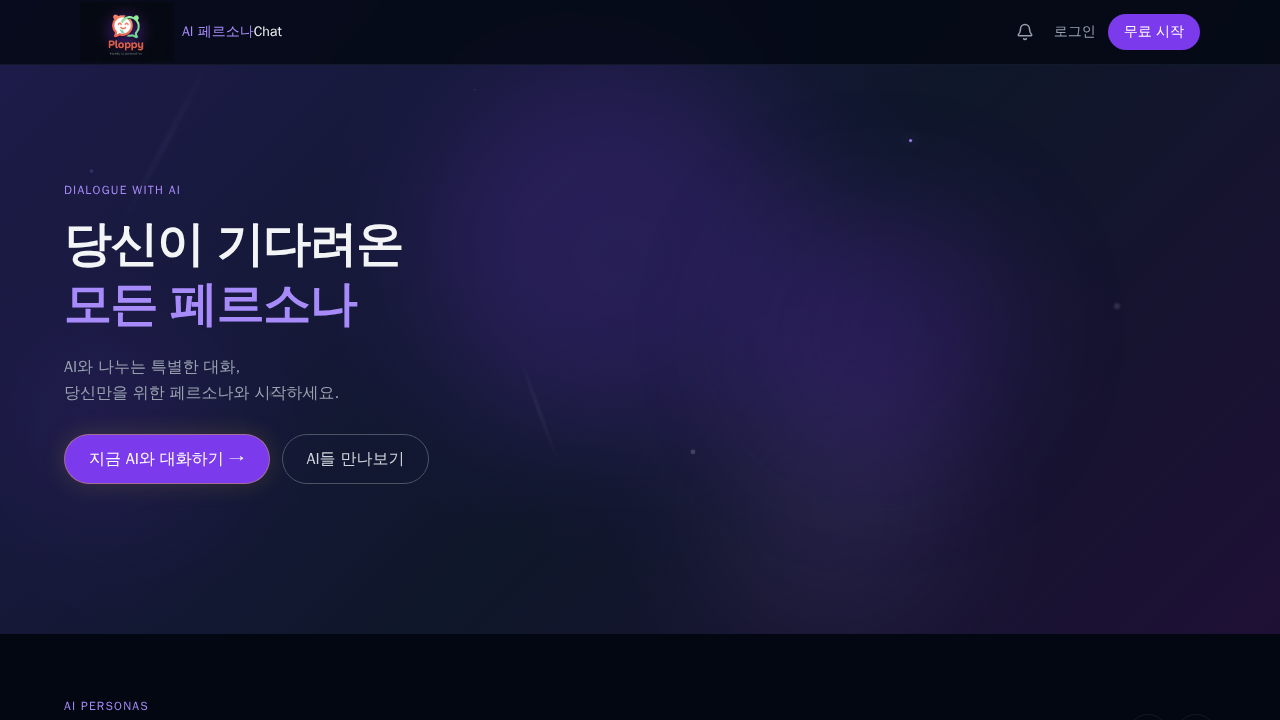
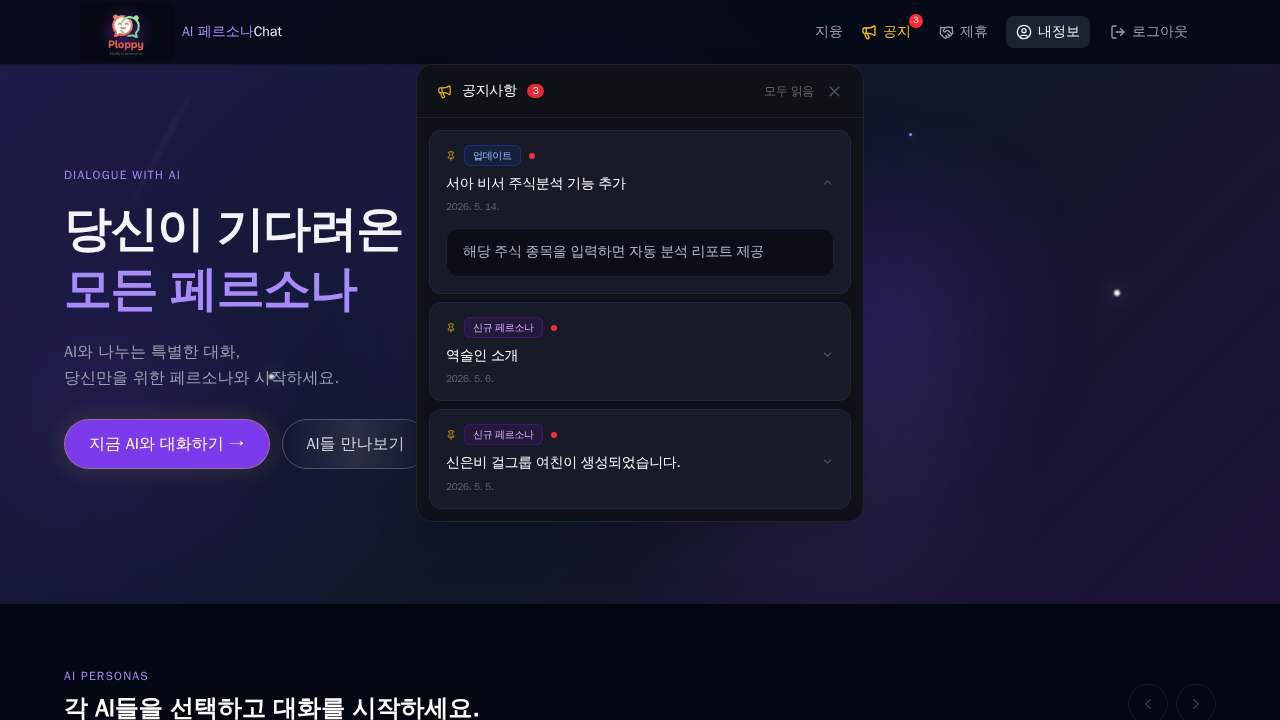
정상작동백업

diff --git a/monitor.js b/monitor.js
@@ -1,6 +1,8 @@
 /**
  * Site Monitor — 3시간마다 crontab으로 실행
- * 성공/실패 결과를 Brevo 이메일로 발송 + 스크린샷 첨부
+ * 1. 사이트 열림 확인 (HTTP 상태)
+ * 2. 로그인 + 페르소나 목록 확인
+ * 결과를 Brevo 이메일로 발송 + 스크린샷 첨부
  *
  * 실행: node /home/paks11299958/ai_mp/monitor.js
  */
@@ -11,12 +13,14 @@ const fs = require('fs');
 const path = require('path');
 
 // ── 설정 ──────────────────────────────────────────────
-const TARGET_URL      = 'https://aichat.dbzone.kr';
-const SCREENSHOT_PATH = path.join(__dirname, 'site_status.png');
-const TIMEOUT_MS      = 10_000;
-const RECIPIENT_EMAIL = 'paks11299958@gmail.com';
-const BREVO_API_KEY   = process.env.BREVO_API_KEY;
-const SENDER_EMAIL    = process.env.BREVO_SENDER_EMAIL || 'noreply@golf.dbzone.kr';
+const TARGET_URL       = 'https://aichat.dbzone.kr';
+const SCREENSHOT_PATH  = path.join(__dirname, 'site_status.png');
+const TIMEOUT_MS       = 15_000;
+const RECIPIENT_EMAIL  = 'paks11299958@gmail.com';
+const BREVO_API_KEY    = process.env.BREVO_API_KEY;
+const SENDER_EMAIL     = process.env.BREVO_SENDER_EMAIL || 'noreply@golf.dbzone.kr';
+const MONITOR_EMAIL    = process.env.MONITOR_EMAIL;
+const MONITOR_PASSWORD = process.env.MONITOR_PASSWORD;
 // ──────────────────────────────────────────────────────
 
 async function sendEmail({ subject, htmlContent, screenshotPath }) {
@@ -32,8 +36,8 @@ async function sendEmail({ subject, htmlContent, screenshotPath }) {
     }
 
     const body = JSON.stringify({
-        sender:  { name: '사이트 모니터', email: SENDER_EMAIL },
-        to:      [{ email: RECIPIENT_EMAIL }],
+        sender:     { name: '사이트 모니터', email: SENDER_EMAIL },
+        to:         [{ email: RECIPIENT_EMAIL }],
         subject,
         htmlContent,
         ...(attachments.length > 0 ? { attachment: attachments } : {}),
@@ -52,64 +56,121 @@ async function sendEmail({ subject, htmlContent, screenshotPath }) {
 }
 
 (async () => {
-    const now      = new Date().toLocaleString('ko-KR', { timeZone: 'Asia/Seoul' });
-    const browser  = await chromium.launch({ headless: true });
-    const page     = await browser.newPage();
+    const now     = new Date().toLocaleString('ko-KR', { timeZone: 'Asia/Seoul' });
+    const browser = await chromium.launch({ headless: true });
+    const page    = await browser.newPage();
+
+    const results = {
+        site:  { ok: false, detail: '' },
+        login: { ok: false, detail: '' },
+    };
 
     try {
-        const response = await page.goto(TARGET_URL, {
-            timeout:   TIMEOUT_MS,
-            waitUntil: 'networkidle',
-        });
+        // ── Check 1: 사이트 열림 ──────────────────────────────
+        try {
+            const response = await page.goto(TARGET_URL, {
+                timeout:   TIMEOUT_MS,
+                waitUntil: 'networkidle',
+            });
+            const status = response?.status() ?? 0;
+            if (status >= 400) throw new Error(`HTTP ${status}`);
+            results.site = { ok: true, detail: `HTTP ${status}` };
+            console.log(`✅ [사이트] ${TARGET_URL} — HTTP ${status}`);
+        } catch (err) {
+            results.site = { ok: false, detail: err.message };
+            console.error(`❌ [사이트] ${err.message}`);
+        }
 
-        const status = response?.status() ?? 0;
-        if (status >= 400) throw new Error(`HTTP ${status}`);
+        // ── Check 2: 로그인 + 페르소나 목록 ──────────────────
+        if (!results.site.ok) {
+            results.login = { ok: false, detail: '사이트 접속 실패로 로그인 점검 건너뜀' };
+        } else if (!MONITOR_EMAIL || !MONITOR_PASSWORD) {
+            results.login = { ok: false, detail: 'MONITOR_EMAIL/MONITOR_PASSWORD 환경변수 미설정' };
+        } else {
+            try {
+                // 로그인 버튼 클릭 (nav 상단 버튼)
+                await page.getByRole('button', { name: '로그인' }).first().click();
 
+                // 이메일 입력창 대기 후 입력
+                await page.waitForSelector('input[placeholder*="example@email.com"]', { timeout: 5_000 });
+                await page.fill('input[placeholder*="example@email.com"]', MONITOR_EMAIL);
+
+                // 비밀번호 입력
+                await page.fill('input[type="password"]', MONITOR_PASSWORD);
+
+                // 폼 제출 (Enter)
+                await page.keyboard.press('Enter');
+
+                // 모달 닫힘 대기 (비밀번호 input 사라짐 = 로그인 성공)
+                await page.waitForSelector('input[type="password"]', {
+                    state:   'hidden',
+                    timeout: TIMEOUT_MS,
+                });
+
+                // 페르소나 목록 노출 확인
+                await page.waitForSelector('text=모든 페르소나', { timeout: 10_000 });
+
+                results.login = { ok: true, detail: '페르소나 목록 표시 확인' };
+                console.log('✅ [로그인] 성공 — 페르소나 목록 확인');
+            } catch (err) {
+                results.login = { ok: false, detail: err.message };
+                console.error(`❌ [로그인] ${err.message}`);
+            }
+        }
+
+        // ── 스크린샷 ──────────────────────────────────────────
         await page.screenshot({ path: SCREENSHOT_PATH, fullPage: false });
-        console.log(`✅ [성공] ${now} — ${TARGET_URL} (HTTP ${status})`);
         console.log(`📸 스크린샷: ${SCREENSHOT_PATH}`);
 
+        // ── 이메일 발송 ───────────────────────────────────────
+        const allOk     = results.site.ok && results.login.ok;
+        const siteRow   = row('사이트 열림', results.site);
+        const loginRow  = row('로그인',     results.login);
+
         await sendEmail({
-            subject: `✅ [정상] aichat.dbzone.kr — ${now}`,
+            subject: allOk
+                ? `✅ [정상] aichat.dbzone.kr — ${now}`
+                : `🚨 [장애] aichat.dbzone.kr — ${now}`,
             htmlContent: `
-                <h2 style="color:#16a34a">✅ 사이트 정상 운영 중</h2>
-                <table style="font-size:14px;line-height:1.8">
-                    <tr><td><b>URL</b></td><td>${TARGET_URL}</td></tr>
-                    <tr><td><b>HTTP 상태</b></td><td>${status}</td></tr>
-                    <tr><td><b>점검 시각</b></td><td>${now}</td></tr>
+                <h2 style="color:${allOk ? '#16a34a' : '#dc2626'}">
+                    ${allOk ? '✅ 사이트 정상 운영 중' : '🚨 장애 감지'}
+                </h2>
+                <table style="font-size:14px;line-height:2;border-collapse:collapse;width:100%;max-width:480px">
+                    <thead>
+                        <tr style="background:#f3f4f6">
+                            <th style="padding:8px 14px;text-align:left">점검 항목</th>
+                            <th style="padding:8px 14px;text-align:left">결과</th>
+                            <th style="padding:8px 14px;text-align:left">상세</th>
+                        </tr>
+                    </thead>
+                    <tbody>
+                        ${siteRow}
+                        ${loginRow}
+                    </tbody>
                 </table>
-                <p style="color:#6b7280;font-size:12px;margin-top:16px">스크린샷을 첨부파일에서 확인하세요.</p>
+                <p style="font-size:13px;color:#6b7280;margin-top:16px">점검 시각: ${now}</p>
+                ${!allOk ? '<p style="margin-top:12px;font-weight:bold;color:#dc2626">즉시 서버 상태를 확인해주세요.</p>' : ''}
+                <p style="color:#9ca3af;font-size:12px;margin-top:8px">스크린샷을 첨부파일에서 확인하세요.</p>
             `,
             screenshotPath: SCREENSHOT_PATH,
         });
 
-        console.log(`📧 성공 이메일 발송 → ${RECIPIENT_EMAIL}`);
+        console.log(`📧 이메일 발송 → ${RECIPIENT_EMAIL}`);
+        if (!allOk) process.exitCode = 1;
 
-    } catch (err) {
-        const now2 = new Date().toLocaleString('ko-KR', { timeZone: 'Asia/Seoul' });
-        console.error(`⚠ [경고] 사이트 접속 실패! → ${err.message}`);
-
-        try {
-            await sendEmail({
-                subject: `🚨 [장애] aichat.dbzone.kr 접속 불가 — ${now2}`,
-                htmlContent: `
-                    <h2 style="color:#dc2626">🚨 사이트 접속 장애 감지</h2>
-                    <table style="font-size:14px;line-height:1.8">
-                        <tr><td><b>URL</b></td><td>${TARGET_URL}</td></tr>
-                        <tr><td><b>오류</b></td><td style="color:#dc2626">${err.message}</td></tr>
-                        <tr><td><b>감지 시각</b></td><td>${now2}</td></tr>
-                    </table>
-                    <p style="margin-top:16px;font-weight:bold;color:#dc2626">즉시 서버 상태를 확인해주세요.</p>
-                `,
-                screenshotPath: null,
-            });
-            console.error(`📧 장애 알림 이메일 발송 → ${RECIPIENT_EMAIL}`);
-        } catch (mailErr) {
-            console.error(`❌ 이메일 발송도 실패: ${mailErr.message}`);
-        }
-
-        process.exitCode = 1;
     } finally {
         await browser.close();
     }
 })();
+
+function row(label, { ok, detail }) {
+    const icon  = ok ? '✅' : '❌';
+    const color = ok ? '#16a34a' : '#dc2626';
+    return `
+        <tr style="border-top:1px solid #e5e7eb">
+            <td style="padding:8px 14px">${label}</td>
+            <td style="padding:8px 14px;color:${color};font-weight:bold">${icon} ${ok ? '정상' : '실패'}</td>
+            <td style="padding:8px 14px;color:#6b7280;font-size:13px">${detail}</td>
+        </tr>
+    `;
+}
